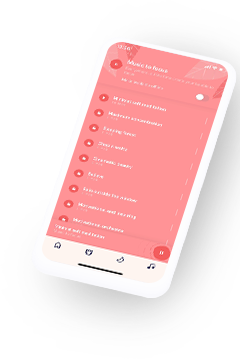
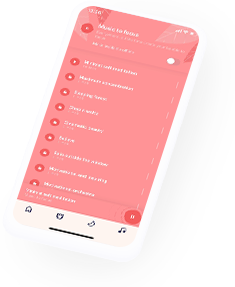
changing right-phone img and position

Changed region(s): [[0.0596, 0.0, 1.0, 0.8641], [0.566, 0.3345, 0.6851, 0.3624], [0.6255, 0.223, 0.6553, 0.2509]]

diff --git a/css/styles.css b/css/styles.css
@@ -1409,14 +1409,15 @@ form {
       z-index: 10;
       top: 12%;
       right: 175px;
-      animation: 3s cubic-bezier(0.45, 0.05, 0.55, 0.95) infinite alternate left-phone-anim; }
+      animation: 3s cubic-bezier(0.45, 0.05, 0.55, 0.95) infinite alternate left-phone-anim;
+      max-width: 130px; }
     .prj_item.mobile-anim .prj_item-img:nth-child(3) {
       z-index: 7;
       top: 0;
       right: 64px; }
     .prj_item.mobile-anim .prj_item-img:nth-child(4) {
       z-index: 5;
-      top: 24%;
+      top: 30%;
       right: 20px;
       animation: 3s cubic-bezier(0.45, 0.05, 0.55, 0.95) infinite alternate right-phone-anim; }
     .prj_item.mobile-anim .prj_item-img:nth-child(5) {
@@ -1432,9 +1433,9 @@ form {
 
 @keyframes right-phone-anim {
   from {
-    right: 25px; }
+    right: 10px; }
   to {
-    right: 40px; } }
+    right: 25px; } }
   .prj_item-title {
     margin-bottom: 18px;
     font-weight: 700;
@@ -1516,8 +1517,8 @@ form {
     top: -12%;
     right: 88px; }
   .prj_item.mobile-anim .prj_item-img:nth-child(4) {
-    top: 20%;
-    right: 0; }
+    right: 0;
+    max-width: 180px; }
   .prj_item.mobile-anim .prj_item-img:nth-child(5) {
     right: 180px; }
   @keyframes left-phone-anim {
@@ -1527,9 +1528,9 @@ form {
       right: 230px; } }
   @keyframes right-phone-anim {
     from {
-      right: 20px; }
+      right: 15px; }
     to {
-      right: 45px; } } }
+      right: 40px; } } }
 
 @media (min-width: 1200px) {
   .prj .left-bg,
@@ -1581,8 +1582,7 @@ form {
         right: 80px;
         top: 0; }
       .prj_item.mobile-anim .prj_item-img:nth-child(4) {
-        right: 60px;
-        top: 24%; }
+        right: 60px; }
       .prj_item.mobile-anim .prj_item-img:nth-child(5) {
         right: 200px;
         top: 53%; }
@@ -1593,9 +1593,9 @@ form {
       right: 255px; } }
   @keyframes right-phone-anim {
     from {
-      right: 0; }
+      right: -5%; }
     to {
-      right: 35px; } }
+      right: 2%; } }
     .prj_item.web-anim.top img:first-child {
       max-width: 450px; }
   @keyframes btm-left-anim {

diff --git a/scss/_projects-section.scss b/scss/_projects-section.scss
@@ -256,6 +256,7 @@
           top: 12%;
           right: 175px;
           animation: 3s cubic-bezier(0.45, 0.05, 0.55, 0.95) infinite alternate left-phone-anim;
+          max-width: 130px;
         }
 
         &:nth-child(3) {
@@ -266,7 +267,7 @@
 
         &:nth-child(4) {
           z-index: 5;
-          top: 24%;
+          top: 30%;
           right: 20px;
           animation: 3s cubic-bezier(0.45, 0.05, 0.55, 0.95) infinite alternate right-phone-anim;
         }
@@ -288,10 +289,10 @@
 
         @keyframes right-phone-anim {
           from {
-            right: 25px;
+            right: 10px;
           }
           to {
-            right: 40px;
+            right: 25px;
           }
         }
       }
@@ -465,8 +466,8 @@
           }
 
           &:nth-child(4) {
-            top: 20%;
             right: 0;
+            max-width: 180px;
           }
 
           &:nth-child(5) {
@@ -484,10 +485,10 @@
 
           @keyframes right-phone-anim {
             from {
-              right: 20px;
+              right: 15px;
             }
             to {
-              right: 45px;
+              right: 40px;
             }
           }
         }
@@ -606,7 +607,6 @@
 
           &:nth-child(4) {
             right: 60px;
-            top: 24%;
           }
 
           &:nth-child(5) {
@@ -625,10 +625,10 @@
 
           @keyframes right-phone-anim {
             from {
-              right: 0;
+              right: -5%;
             }
             to {
-              right: 35px;
+              right: 2%;
             }
           }
         }

diff --git a/projects.html b/projects.html
@@ -199,7 +199,7 @@
                                 convenience, so he needed to find a way to solve the problem and found us.
                                 At that time we didn’t have enough experience in graphics. Later, when I asked Ben
                                 why he picked us for the implementation, he replied that he had a good feeling about
-                                us :wink:. So, with good team spirit, more than one year of hard work, love with
+                                us 😉. So, with good team spirit, more than one year of hard work, love with
                                 JavaScript technologies stack and help of his team of graphics experts we made it.
                             </div>
                             <div class="prj_item-response">

diff --git a/index.html b/index.html
@@ -147,6 +147,7 @@
             <div><img src="/img/slick-logos/redis-logo.jpg" alt=""></div>
             <div><img src="/img/slick-logos/pixi-js-logo.jpg" alt=""></div>
             <div><img src="/img/slick-logos/fabric-js-logo.jpg" alt=""></div>
+            <div><img src="/img/slick-logos/vuejs-logo.jpg" alt=""></div>
         </div>
     </div>
 </section>
